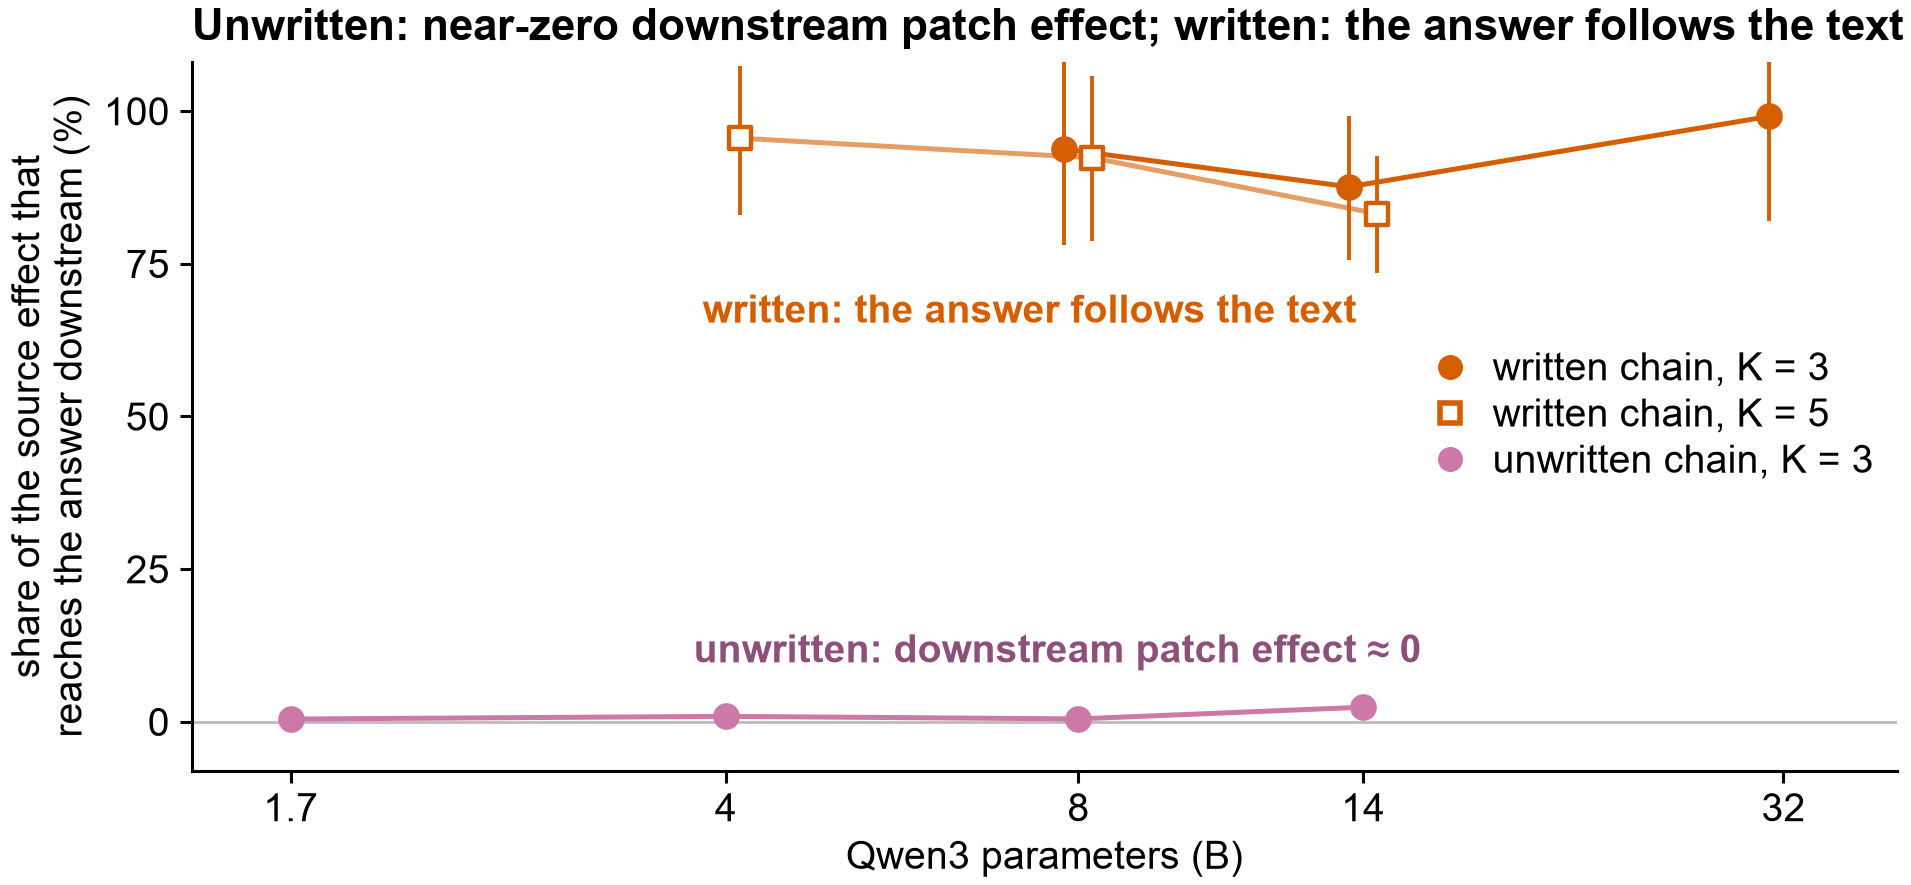
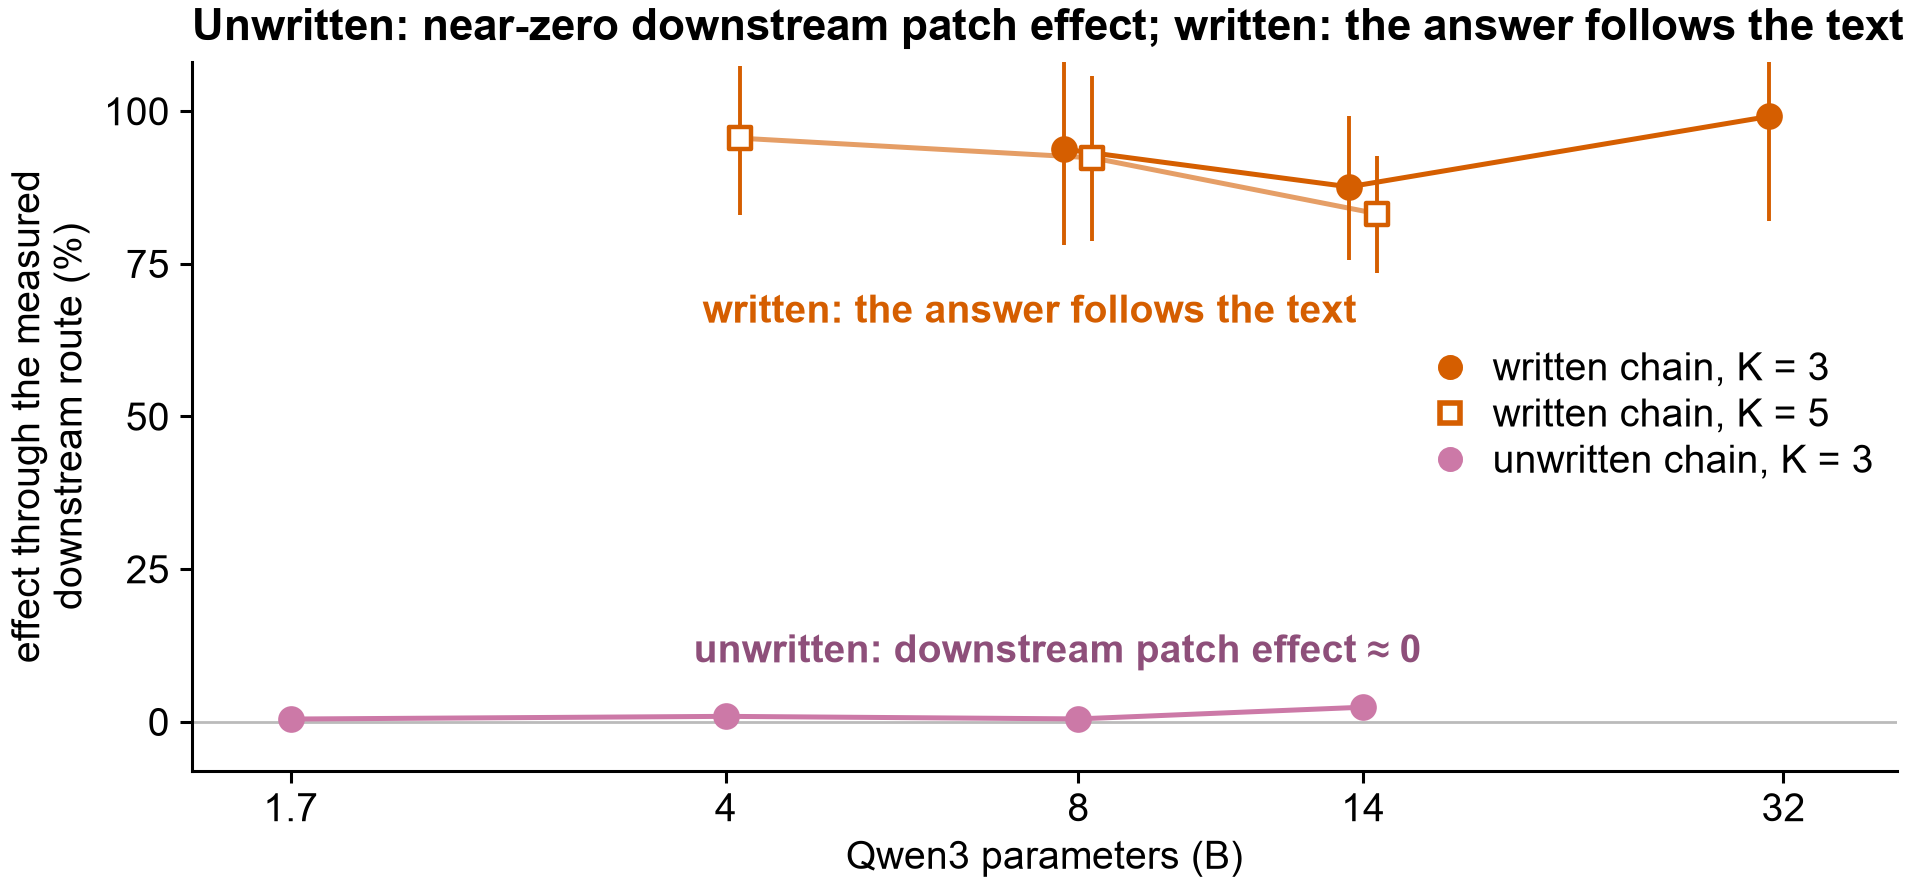
v11 review: Table 1 37%, Qwen3.5 sentence positions in appendix, 'function word or possessive token', sums and chains as patch nulls, 27B rewording on pick specificity (82%/23%), distance sufficiency/necessity, filler interval, Table 2 intervals, Figure 5 axis and denominators, AI statement

Changed region(s): [[0.0, 0.122, 0.0617, 0.8237]]

diff --git a/manuscript/figures/make_iclr_figures.py b/manuscript/figures/make_iclr_figures.py
@@ -845,7 +845,7 @@ def fig3():
         y += hA + 26
     # B. The hidden-choice instruction once, with its storage tokens highlighted.
     y += 4
-    bg.text(0, y, "B   Hidden choice: the pick is stored on periods and on one function word",
+    bg.text(0, y, "B   Hidden choice: the pick is stored on periods and on one function word or possessive token",
             fontsize=8, weight="bold", va="top")
     y += 14
     fr, fa, an = ("choice_replicate_fruits_localize_summary.json", "choice_replicate_fruits_localize_alt_summary.json",
@@ -908,7 +908,7 @@ def fig3():
     if rowsB:
         hB = row_h * len(rowsB) + 4
         ax = axes_pts(112, y, Wpt - 112 - 6, hB)
-        cols = [("#00563F", "segment-closing periods"), (COL["storage"], "one function word (named)"),
+        cols = [("#00563F", "segment-closing periods"), (COL["storage"], "one function word or possessive token (named)"),
                 ("#E3E3E3", "all other tokens")]
         for i, vals in enumerate(rowsB):
             left = 0.0
@@ -1170,7 +1170,7 @@ def fig5():
     ax.set_ylim(-8, 108)
     ax.set_yticks([0, 25, 50, 75, 100])
     ax.set_xlabel("Qwen3 parameters (B)")
-    ax.set_ylabel("share of the source effect that\nreaches the answer downstream (%)")
+    ax.set_ylabel("effect through the measured\ndownstream route (%)")
     ax.set_title("Unwritten: near-zero downstream patch effect; written: the answer follows the text")
     save(fig, "iclr_fig5_computed_and_written.png")
 
